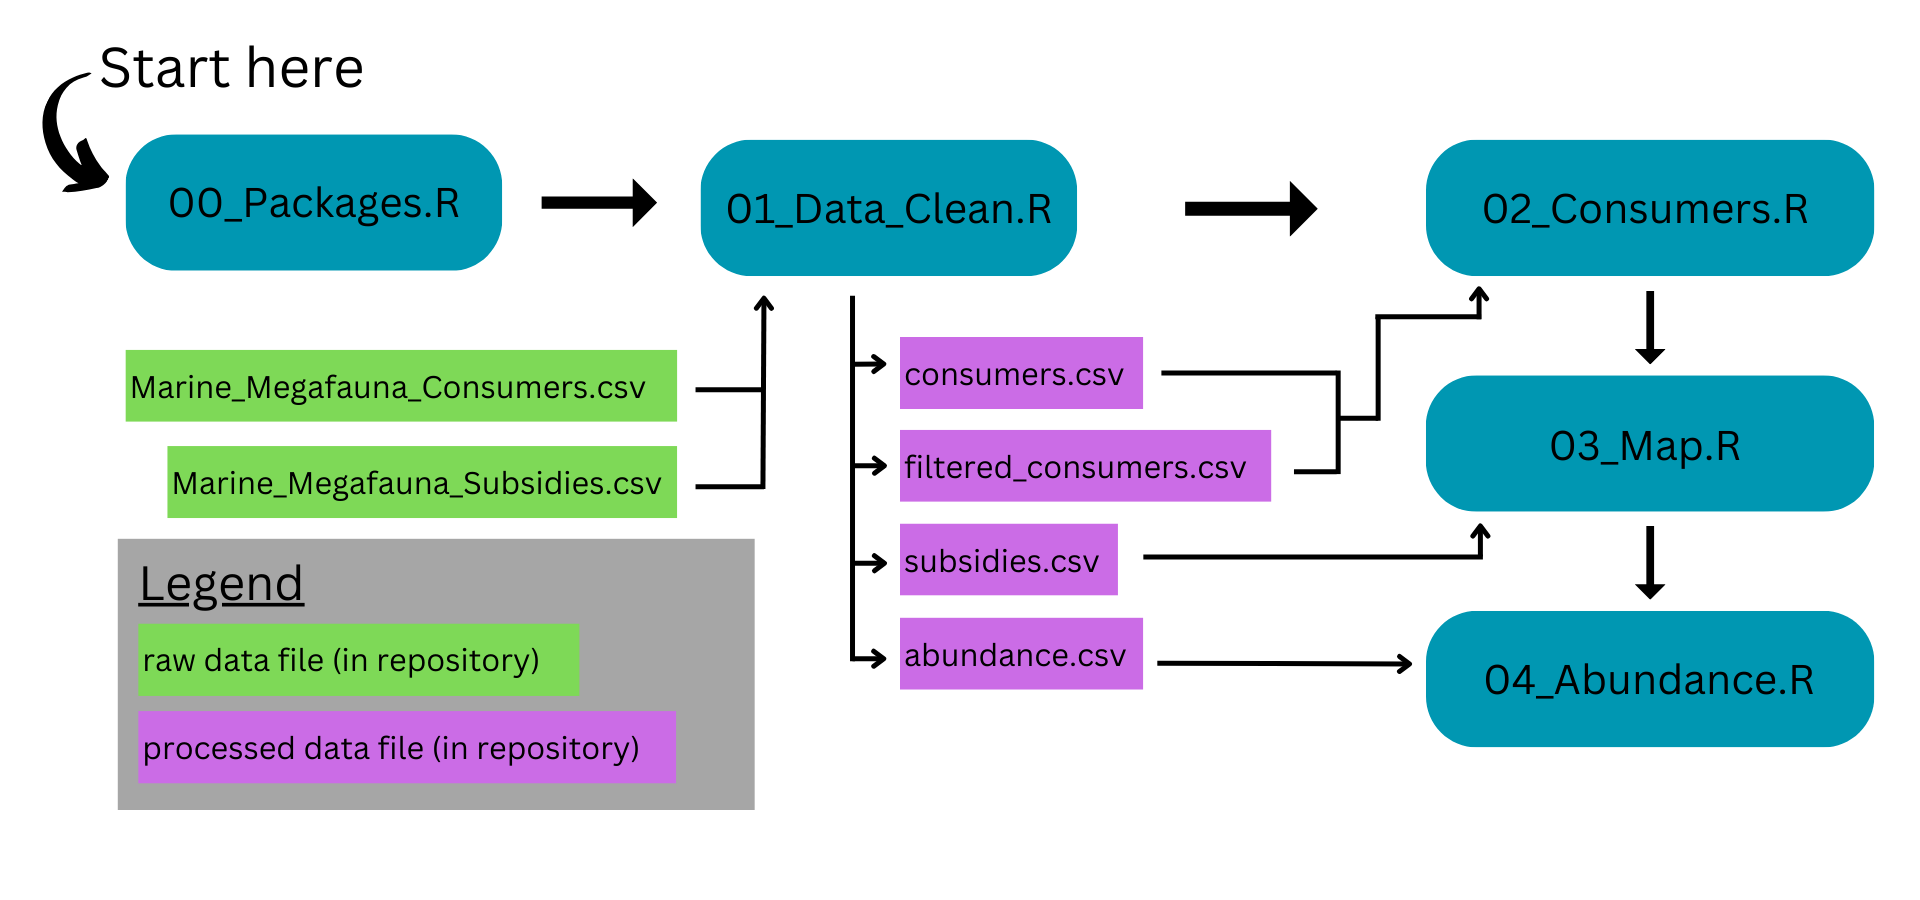
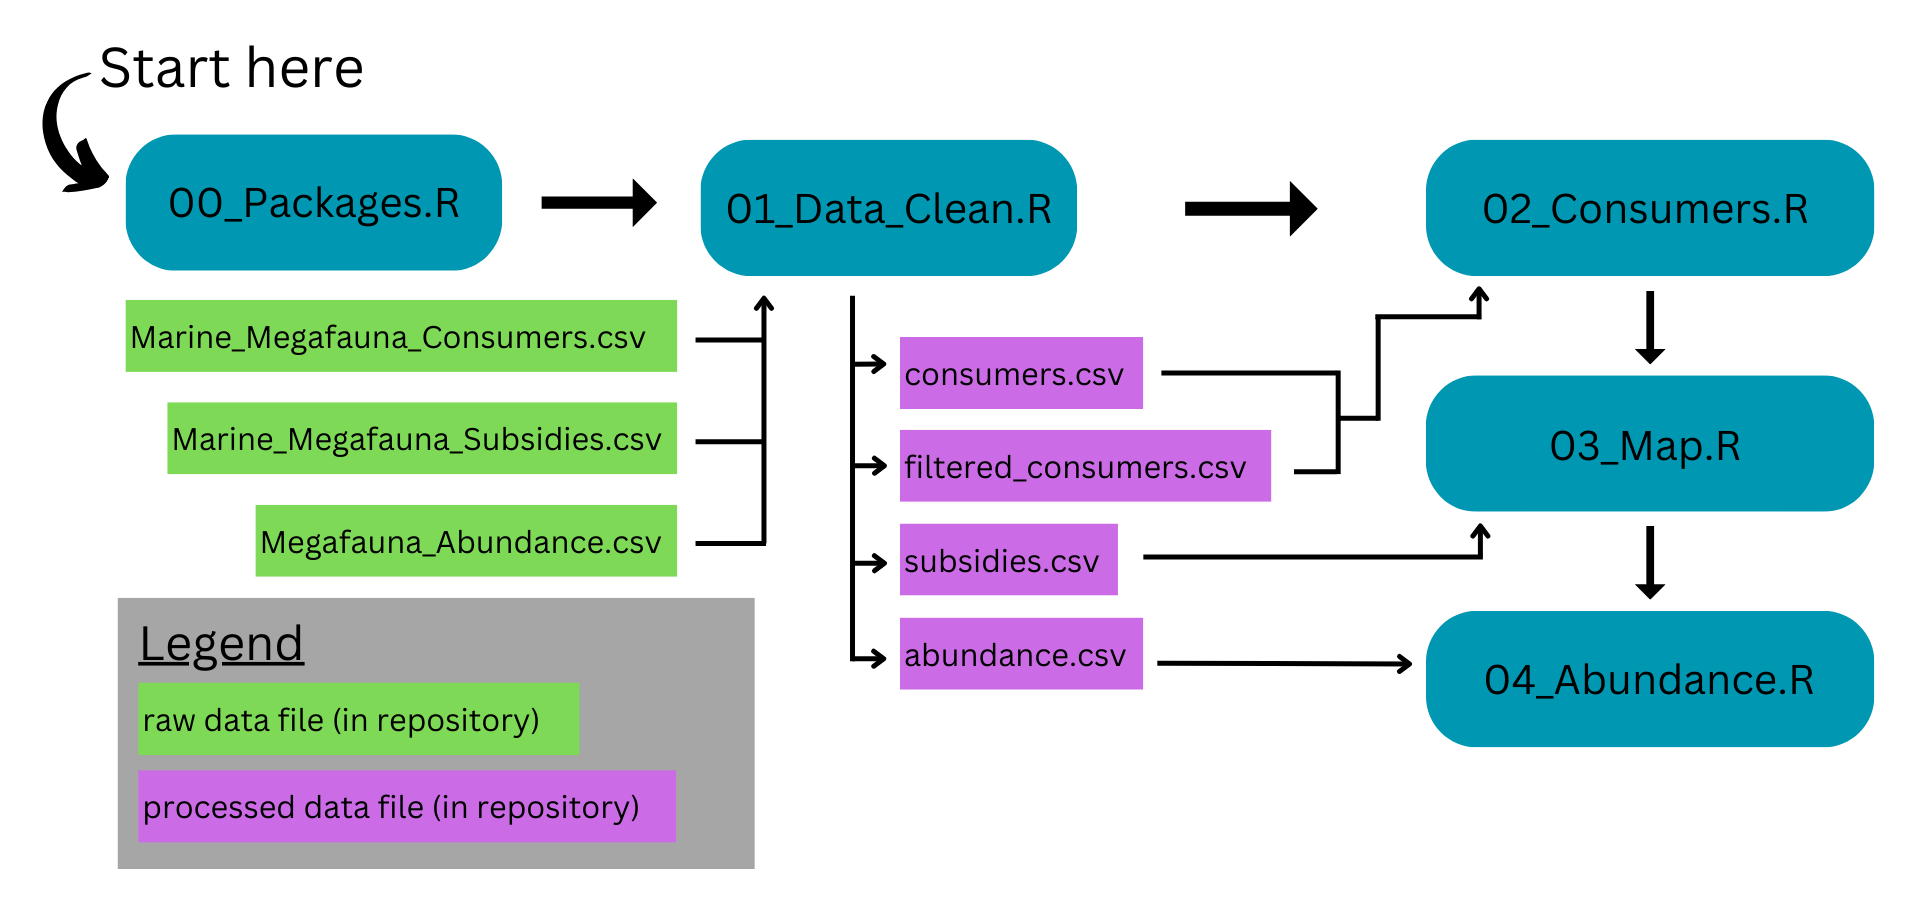
readme tweak

Changed region(s): [[0.0625, 0.3111, 0.4062, 0.9644]]

diff --git a/README.md b/README.md
@@ -2,8 +2,7 @@
 
 *FD Gerraty, et al. (In Prep)*
 
-Marine megafauna connect land and sea by serving as large, calorically-rich food sources for terrestrial consumers and by transferring marine-derived nutrients onto land as eggs, placenta, and excreta. In this project, we review the role of marine megafauna—particularly marine mammals and sea turtles—as connecters of marine and terrestrial ecosystems along global coastlines. We compile published literature to describe the diversity of terrestrial consumers that exploit marine megafauna as a food source, as well as descriptions of documented ecological consequences resulting from megafauna-mediated nutrient subsidies from marine to terrestrial ecosystems. Here, we provide an overview of the datasets and scripts associated with this repository.
-
+Marine megafauna connect land and sea by serving as large, calorically-rich food sources for terrestrial consumers and by transferring marine-derived nutrients onto land as eggs, placenta, and excreta. In this project, we review the role of marine megafauna---particularly marine mammals and sea turtles---as connecters of marine and terrestrial ecosystems along global coastlines. We compile published literature to describe the diversity of terrestrial consumers that exploit marine megafauna as a food source, as well as descriptions of documented ecological consequences resulting from megafauna-mediated nutrient subsidies from marine to terrestrial ecosystems. Here, we provide an overview of the datasets and scripts associated with this repository.
 
 ------------------------------------------------------------------------
 
@@ -12,6 +11,8 @@ There are two primary datasets associated with this repository:
 1.  **Marine Megafauna Consumers:** All of the terrestrial vertebrate consumers of marine megafauna captured in our synthetic literature review (see manuscript for review methods). The cleaned dataset is accessible at [`data/processed/consumers.csv`](https://github.com/fgerraty/Marine_Megafauna_Subsidies/blob/main/data/processed/consumers.csv). See [`data/README.md`](https://github.com/fgerraty/Marine_Megafauna_Subsidies/blob/main/data/README.md) for data dictionary and additional details.
 
 2.  **Marine Megafauna Subsidies:** All of the case studies captured in our synthetic literature review that documented an ecological consequence in terrestrial ecosystems arising from (1) marine megafauna consumption by terrestrial consumers, (2) marine megafauna vectored nutrient subsidies to terrestrial ecosystems, or (3) indirect effects of marine megafauna. The cleaned dataset is accessible at [`data/processed/subsidies.csv`](https://github.com/fgerraty/Marine_Megafauna_Subsidies/blob/main/data/processed/subsidies.csv). See [`data/README.md`](https://github.com/fgerraty/Marine_Megafauna_Subsidies/blob/main/data/README.md) for data dictionary and additional details.
+
+There is one additional dataset associated with this repository, "Marine Megafauna Abundance" ([`data/processed/abundance.csv`](https://github.com/fgerraty/Marine_Megafauna_Subsidies/blob/main/data/processed/abundance.csv)) that is derived from [Lotze and Worm (2009)](https://doi.org/10.1016/j.tree.2008.12.004) and includes historical and recent abundance estimates of marine mammal and sea turtle populations. See [`data/README.md`](https://github.com/fgerraty/Marine_Megafauna_Subsidies/blob/main/data/README.md) for data dictionary and additional details.
 
 ------------------------------------------------------------------------
 
